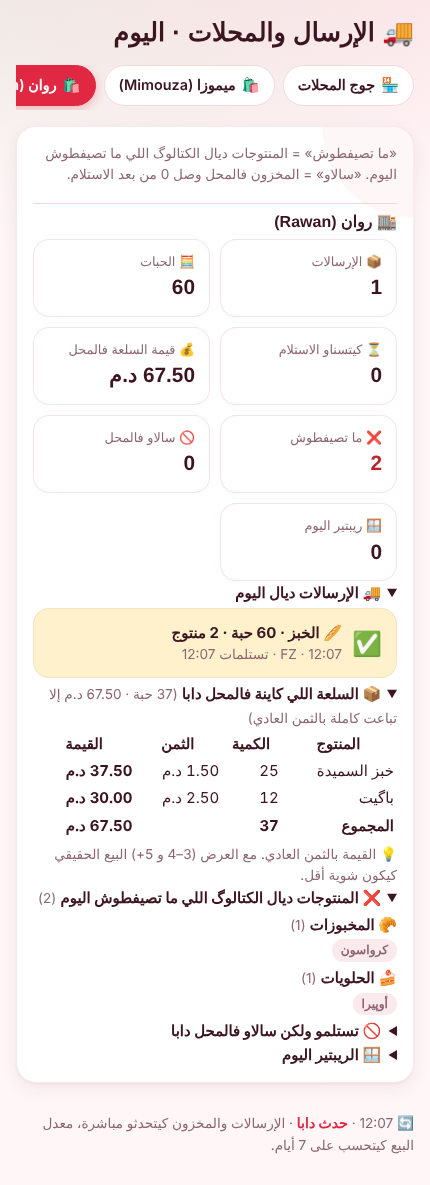
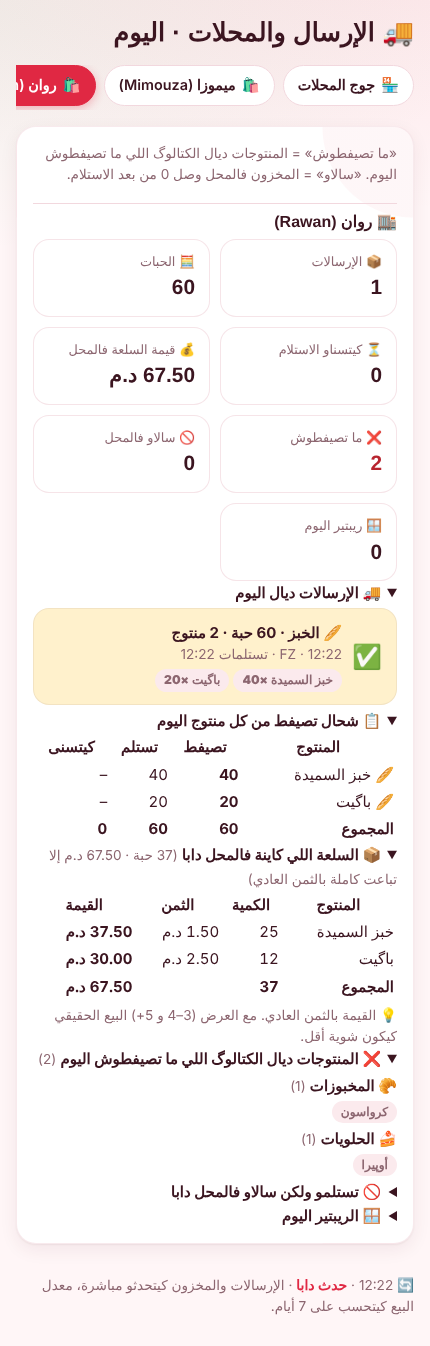
Envois: product quantities shown inline (list, alerts, page) + per-product table
Claude-Session: https://claude.ai/code/session_014YpbwZJMCfzPCsZSkfDrJR

diff --git a/index.html b/index.html
@@ -414,7 +414,7 @@ body.hasme .brand{flex-shrink:0}
 
 <meta charset="utf-8"><meta name="viewport" content="width=device-width,initial-scale=1,viewport-fit=cover"><link rel="manifest" href="manifest.webmanifest"><meta name="apple-mobile-web-app-capable" content="yes"><meta name="mobile-web-app-capable" content="yes"><meta name="apple-mobile-web-app-title" content="Morango"><link rel="apple-touch-icon" href="icon-512.png"><link rel="icon" href="icon-192.png">
 <style>/* iPhone home-screen app: keep content below the status bar / notch */@supports(padding:env(safe-area-inset-top)){body{padding-top:env(safe-area-inset-top)}body::before{content:"";position:fixed;top:0;left:0;right:0;height:env(safe-area-inset-top);background:var(--bg,#fff6f7);z-index:30;pointer-events:none}#sheet .panel{max-height:calc(100% - env(safe-area-inset-top) - 8px)}}</style>
-<script>window.MORANGO_CFG={"url": "https://brxbykkrbpixrmjricco.supabase.co", "key": "sb_publishable_Z4BlEcmV2KvEW01prDcrRw_PmjsgEGl", "email": "app@morango.ma", "build": "20261128120712"}</script>
+<script>window.MORANGO_CFG={"url": "https://brxbykkrbpixrmjricco.supabase.co", "key": "sb_publishable_Z4BlEcmV2KvEW01prDcrRw_PmjsgEGl", "email": "app@morango.ma", "build": "20261128122326"}</script>
 <script src="https://cdn.jsdelivr.net/npm/@supabase/supabase-js@2.45.4/dist/umd/supabase.js"></script>
 <script>/* Morango standalone: Supabase backend behind the same db API the app uses (doc/collection/where/orderBy/limit/onSnapshot) */
 (function(){
@@ -1170,9 +1170,10 @@ function mgLow(force){if(!isAdmin())return[];if(!force&&Date.now()-MGC.t<6e4)ret
 function sheetMarginRep(){const L=mgLow(true);openSheet('📉 الهامش تحت 50%',`<p class="muted" style="margin:0">التكلفة كتتبدل مع أثمنة الشرا. هادو المنتوجات اللي الثمن الصغير ديالهم (العرض) كيخلي هامش تحت 50%. «👌 شفتو» كيخبي التنبيه حتى تطلع التكلفة مرة أخرى.</p>${L.length?L.map(x=>`<div class="prow"><div class="lead"><div><b>${ico(x.it.id)} ${esc(x.it.name)}</b><div class="muted">التكلفة ${money(x.c)} · أصغر ثمن ${money(x.p)} · <span class="neg">هامش ${Math.round(x.m*100)}%</span> · باش يكون 50%: ${money(Math.ceil(x.c/MG_MIN*2)/2)}</div></div></div><div style="display:flex;gap:6px"><button type="button" class="btn small" data-act="itemview" data-id="${x.it.id}">✏</button><button type="button" class="btn small" data-act="mgack" data-id="${x.it.id}">👌 شفتو</button></div></div>`).join(''):'<p>✅ كلشي فوق 50%</p>'}`)}
 function mgAck(id){const it=S.items[id];if(!it)return;const x=mgLow(true).find(y=>y.it.id===id);if(!x)return;db.doc('items/'+id).update({mAck:{c:r2(x.c),p:x.p,ts:Date.now(),by:meName()}}).then(()=>{it.mAck={c:r2(x.c),p:x.p};MGC.t=0;toast('👌');sheetMarginRep()}).catch(e=>toast(e.message||'خطأ',true))}
 function alertsFor(){if(vendRole()){const keep=alertsFor0().filter(h=>/data-act="(tempin|vitshot|transfer)"/.test(h));return keep.concat(helperPending(me.id).map(x=>`<div class="alert bad" data-act="helpconf" data-id="${x.id}"><div class="lead"><span class="em">🤝</span><div><b>أكدي الجرد ديال النوبة ديال ${esc(x.seller||'')}</b><div class="muted">حسبي معاها وأكدي</div></div></div><span class="tag bad">أكدي</span></div>`))}return alertsFor0()}
+const trItems=o=>`<div style="display:flex;flex-wrap:wrap;gap:4px;margin-top:4px">${(o.lines||[]).map(l=>`<span class="tag">${esc(iname(l.item).split(' (')[0])} <b>×${fmt(l.qty)}</b></span>`).join('')}</div>`;
 function alertsFor0(){
   const r=me.role,A=[];if(isMgr())retAll().filter(x=>x.status==='pending').forEach(x=>A.push(`<div class="alert warn" data-act="retopen" data-id="${x.id}"><div class="lead"><span class="em">↩</span><div><b>${x.lateMin>0?'⏰ متأخر · ':''}ريتور كيتسنى الموافقة ديالك: ${money(x.total)}</b><div class="muted">🧾 ${esc(x.ticketNo)} · ${esc(LOC[x.pos]||'')} · 💁 ${esc(x.by)} ${hm(x.ts)} · ${esc(x.why||'')}</div></div></div><span class="tag warn">شوف</span></div>`));if(me.role==='seller'&&!vendRole())retAll().filter(x=>x.status==='approved'&&x.byId===me.id).forEach(x=>A.push(`<div class="alert good" data-act="retopen" data-id="${x.id}"><div class="lead"><span class="em">↩</span><div><b>✅ تقبل الريتور: ${money(x.total)}</b><div class="muted">🧾 ${esc(x.ticketNo)} · كملي مع الزبون</div></div></div><span class="tag good">كمل</span></div>`));if(isMgr()||isProd()||canBuy()){const np=Object.values(S.lotm||{}).filter(l=>l.needPrint&&!l.printed&&l.status==='active');const byP={};np.forEach(l=>{const k=l.purchaseId||l.id;(byP[k]=byP[k]||[]).push(l)});Object.values(byP).forEach(L=>A.push(`<div class="alert bad" data-act="lotprint" data-id="${L.map(l=>l.id).join(',')}"><div class="lead"><span class="em">🏷</span><div><b>طبع ${L.length} تيكي ديال الشراء ولصقهم على السلعة</b><div class="muted">${esc(L[0].supplier||'')} · ${esc(LOC[L[0].loc]||'')} · ${esc(L[0].by||'')} ${hm(L[0].ts)}</div></div></div><span class="tag bad">🖨 طبع</span></div>`))}if(isMgr())itemsArr().filter(i=>i.active!==false&&blendOf(i.id)&&+i.blendTarget>0).forEach(i=>{const c=blendCostAt(i.id,blendOf(i.id));if(c>+i.blendTarget+0.005)A.push(`<div class="alert warn" data-act="blendfix" data-id="${i.id}"><div class="lead"><span class="em">🥣</span><div><b>${esc(i.name)}${frT(i)} طلع لـ ${money(c)} (الهدف ${money(i.blendTarget)})</b><div class="muted">الأثمنة ديال المواد تبدلو · شوف الاقتراح ديال الوصفة</div></div></div><span class="tag warn">💡</span></div>`)});if(canDpSend())(S.dplans||[]).filter(p=>p.date<=today()&&p.date>=daysAgo(1)&&(dpLate(p)||dpSoon(p))).forEach(p=>A.push(`<div class="alert ${dpLate(p)?'bad':'acc'}" data-act="go" data-v="dispatch" data-id="${p.id}${dpLate(p)?'L':'S'}"><div class="lead"><span class="em">🚚</span><div><b>${dpLate(p)?'⏰ متأخر: ':'🔜 قريب: '}الإرسال ديال ${esc(p.time||'')} لـ${esc(LOC[p.pos]||'')}</b><div class="muted">${(p.lines||[]).length} منتوج · ${dpState(p)==='part'?'تصيفط شي':'ما تصيفط والو'}</div></div></div><span class="tag ${dpLate(p)?'bad':'acc'}">صيفط</span></div>`));vldOps().forEach(o=>{const t=vldTodo(o),S1=opSum(o);A.push(`<div class="alert ${t==='fix'?'bad':'acc'}" data-act="vld" data-id="${o.id}"><div class="lead"><span class="em">${t==='sign'?'✍':t==='fix'?'⛔':'✅'}</span><div><b>${t==='sign'?'خاص الشاف يسني: ':t==='fix'?'ترفضات: ':'كتسنى الموافقة ديالك: '}${S1.t}</b><div class="muted">${esc(S1.ws)} · ${S1.it} · ${esc(o.by)} ${hm(o.ts)}</div></div></div><span class="tag acc">شوف</span></div>`)});(S.orders||[]).filter(o=>ordTodo(o).length).forEach(o=>A.push(`<div class="alert acc" data-act="order" data-id="${o.id}"><div class="lead"><span class="em">📝</span><div><b>طلبية #${o.num} كتسنى الموافقة ديالك</b><div class="muted">${esc(o.client)} · 📅 ${o.due} ${o.dueTime||''} · ${ordTodo(o).map(t=>t==='price'?'💰 الثمن':t==='adv'?'💵 التسبيق':'⏳ التاريخ').join('، ')}</div></div></div><span class="tag acc">شوف</span></div>`));const big=r==='admin'||r==='manager'||r==='prod';const mine=o=>big||(r==='ws'&&o.ws===me.loc)||(r==='seller'&&o.pos===me.loc)||(r==='driver'&&o.status==='with_driver');
-  S.pend.filter(o=>o.type==='transfer'&&mine(o)).forEach(o=>A.push(`<div class="alert ${trLate(o)?'bad':'acc'}" data-act="transfer" data-id="${o.id}"><div class="lead"><span class="em">${o.status==='with_driver'?'🚚':'📦'}</span><div><b>${o.status==='with_driver'?'مع السائق':'كتسنى الاستلام'}${trLate(o)?' ⏰ متأخر':''}</b><div class="muted">${esc(LOC[o.ws])} ← ${esc(LOC[o.pos])} · ${hm(o.ts)} · هادي ${dur(trAge(o))}</div></div></div><span class="tag acc">شوف</span></div>`));
+  S.pend.filter(o=>o.type==='transfer'&&mine(o)).forEach(o=>A.push(`<div class="alert ${trLate(o)?'bad':'acc'}" data-act="transfer" data-id="${o.id}"><div class="lead"><span class="em">${o.status==='with_driver'?'🚚':'📦'}</span><div><b>${o.status==='with_driver'?'مع السائق':'كتسنى الاستلام'}${trLate(o)?' ⏰ متأخر':''}</b><div class="muted">${esc(LOC[o.ws])} ← ${esc(LOC[o.pos])} · ${hm(o.ts)} · هادي ${dur(trAge(o))}</div>${trItems(o)}</div></div><span class="tag acc">شوف</span></div>`));
   if(big||r==='ws'||r==='seller'){
     allOps().filter(o=>o.type==='transfer'&&o.hasDiff&&mine(o)).slice(0,5).forEach(o=>A.push(`<div class="alert bad" data-act="transfer" data-id="${o.id}"><div class="lead"><span class="em">⚠</span><div><b>فرق فالاستلام</b><div class="muted">${esc(LOC[o.ws])} ← ${esc(LOC[o.pos])} · ${o.date}</div></div></div><span class="tag bad">شوف</span></div>`));
     S.pend.filter(o=>o.type==='return'&&(big||(r==='ws'&&o.ws===me.loc))).forEach(o=>A.push(`<div class="alert" data-act="decide" data-id="${o.id}"><div class="lead"><span class="em">↩</span><div><b>مرتجعات كتسنى القرار</b><div class="muted">${esc(LOC[o.pos])} ← ${esc(LOC[o.ws])} · ${o.lines.length} منتوج</div></div></div><span class="tag warn">قرر</span></div>`))}
@@ -1254,7 +1255,7 @@ function vProd(){
 function stTag(o){if(o.status==='sent')return '<span class="tag acc">📦 كتسنى</span>';if(o.status==='with_driver')return '<span class="tag acc">🚚 مع السائق</span>';return o.hasDiff?'<span class="tag bad">⚠ فرق</span>':'<span class="tag good">✅ مطابق</span>'}
 const trAge=o=>o.recv?o.recv.ts-o.ts:Date.now()-o.ts;
 const trLate=o=>!o.recv&&trAge(o)>SEND_LATE_MIN*60000;
-const trRow=o=>`<li class="clk" data-act="transfer" data-id="${o.id}"><div class="lead"><span class="em">${LOCI[o.ws]}</span><div><b>${esc(LOC[o.ws])} ← ${esc(LOC[o.pos])}</b><div class="muted">${o.date} ${hm(o.ts)} · ${o.lines.length} منتوج${o.driver?' · '+esc(o.driver):''} · ${o.recv?'⏱ وصلات فـ '+dur(trAge(o)):'⏳ هادي '+dur(trAge(o))}</div></div></div>${trLate(o)?'<span class="tag bad">⏰ متأخر</span>':stTag(o)}</li>`;
+const trRow=o=>`<li class="clk" data-act="transfer" data-id="${o.id}"><div class="lead"><span class="em">${LOCI[o.ws]}</span><div><b>${esc(LOC[o.ws])} ← ${esc(LOC[o.pos])}</b><div class="muted">${o.date} ${hm(o.ts)} · ${o.lines.length} منتوج${o.driver?' · '+esc(o.driver):''} · ${o.recv?'⏱ وصلات فـ '+dur(trAge(o)):'⏳ هادي '+dur(trAge(o))}</div>${trItems(o)}</div></div>${trLate(o)?'<span class="tag bad">⏰ متأخر</span>':stTag(o)}</li>`;
 function vSend(){
   let pend=S.pend.filter(o=>o.type==='transfer');if(me.role==='driver')pend=pend.filter(o=>o.status==='with_driver');if(me.role==='ws')pend=pend.filter(o=>o.ws===me.loc);
   let done=S.ops.filter(o=>o.type==='transfer'&&o.status==='received');if(me.role==='ws')done=done.filter(o=>o.ws===me.loc);
@@ -2983,11 +2984,15 @@ function dashLogi(D){const X=D.data,td=today();if(!X)return '';const fp=D.pos;
     const inSt=catAll.map(i=>({id:i.id,q:stockOf(p.id,i.id),pr:+i.price||0})).filter(x=>x.q>0).sort((a,b)=>b.q*b.pr-a.q*a.pr);const stVal=inSt.reduce((a,x)=>a+x.q*x.pr,0),stQ=inSt.reduce((a,x)=>a+x.q,0);const got={};T.filter(o=>o.recv||o.status==='received').forEach(o=>(o.lines||[]).forEach(l=>got[l.item]=1));const empty=usual.filter(x=>got[x.id]&&stockOf(p.id,x.id)<=0);
     const outs=(S.outs||[]).filter(o=>o.pos===p.id&&o.date===td);const openO=outs.filter(o=>o.status==='open');
     const byWs=arr=>{const g={};arr.forEach(x=>{const w=it(x.id).ws||'';(g[w]=g[w]||[]).push(x)});return Object.entries(g).map(([w,a])=>`<div style="margin:4px 0"><b>${LOCI[w]||'🏭'} ${esc(LOC[w]||w)}</b> <span class="muted">(${a.length})</span><div style="display:flex;flex-wrap:wrap;gap:4px;margin-top:3px">${a.map(x=>`<span class="tag">${nm(x.id)}</span>`).join('')}</div></div>`).join('')};
-    const trRows=T.length?T.map(o=>{const n=(o.lines||[]).reduce((a,l)=>a+(+l.qty||0),0);const ok=o.recv||o.status==='received';return `<div class="alert ${ok?'good':'warn'}" data-act="transfer" data-id="${o.id}" style="margin:4px 0"><div class="lead"><span class="em">${ok?'✅':'⏳'}</span><div><b>${LOCI[o.ws]||''} ${esc(LOC[o.ws]||o.ws)} · ${fmt(n)} حبة · ${(o.lines||[]).length} منتوج</b><div class="muted">${hm(o.ts)} · ${esc(o.by||'')} · ${ok?'تستلمات'+(o.recv?.ts?' '+hm(o.recv.ts):''):'كتسنى الاستلام'}${o.hasDiff?' · ⚠ كاين فرق':''}</div></div></div></div>`}).join(''):'<p class="muted">ما تصيفط والو اليوم.</p>';
+    const trRows=T.length?T.map(o=>{const n=(o.lines||[]).reduce((a,l)=>a+(+l.qty||0),0);const ok=o.recv||o.status==='received';return `<div class="alert ${ok?'good':'warn'}" data-act="transfer" data-id="${o.id}" style="margin:4px 0"><div class="lead"><span class="em">${ok?'✅':'⏳'}</span><div><b>${LOCI[o.ws]||''} ${esc(LOC[o.ws]||o.ws)} · ${fmt(n)} حبة · ${(o.lines||[]).length} منتوج</b><div class="muted">${hm(o.ts)} · ${esc(o.by||'')} · ${ok?'تستلمات'+(o.recv?.ts?' '+hm(o.recv.ts):''):'كتسنى الاستلام'}${o.hasDiff?' · ⚠ كاين فرق':''}</div><div style="display:flex;flex-wrap:wrap;gap:4px;margin-top:4px">${(o.diff||o.lines||[]).map(l=>{const q=o.diff?l.sent:l.qty,g=o.diff?l.got:null;return `<span class="tag">${nm(l.item)} <b>×${fmt(q)}</b>${g!=null&&g!==q?` <span class="neg">(وصل ${fmt(g)})</span>`:''}</span>`}).join('')}</div></div></div></div>`}).join(''):'<p class="muted">ما تصيفط والو اليوم.</p>';
+    const agg={};T.forEach(o=>{const ok=o.recv||o.status==='received';(o.diff||o.lines||[]).forEach(l=>{const id=l.item,q=+(o.diff?l.sent:l.qty)||0,g=ok?+(o.diff?l.got:l.qty)||0:0;const a=agg[id]||(agg[id]={s:0,g:0,p:0});a.s+=q;a.g+=g;if(!ok)a.p+=q})});
+    const aRows=Object.entries(agg).sort((x,y)=>(it(x[0]).ws||'').localeCompare(it(y[0]).ws||'')||y[1].s-x[1].s);
+    const sumTbl=aRows.length?`<div style="overflow-x:auto"><table class="dtab" style="width:100%"><tr><th>المنتوج</th><th>تصيفط</th><th>تستلم</th><th>كيتسنى</th></tr>${aRows.map(([id,a])=>`<tr><td>${LOCI[it(id).ws]||''} ${nm(id)}</td><td class="num"><b>${fmt(a.s)}</b></td><td class="num">${a.g?fmt(a.g):'–'}</td><td class="num ${a.p?'neg':''}">${a.p?fmt(a.p):'–'}</td></tr>`).join('')}<tr><td><b>المجموع</b></td><td class="num"><b>${fmt(aRows.reduce((t,[,a])=>t+a.s,0))}</b></td><td class="num"><b>${fmt(aRows.reduce((t,[,a])=>t+a.g,0))}</b></td><td class="num"><b>${fmt(aRows.reduce((t,[,a])=>t+a.p,0))}</b></td></tr></table></div>`:'<p class="muted">ما تصيفط والو اليوم.</p>';
     const stat=(i,l,v,c='')=>`<div class="stat"><span>${i} ${l}</span><b class="${c}">${v}</b></div>`;
     return `<div style="border-top:1px solid var(--line);padding-top:8px;margin-top:8px"><h3 style="margin:0 0 6px">${LOCI[p.id]||'🏪'} ${esc(p.name)}</h3>
       <div class="stats dk">${stat('📦','الإرسالات',fmt(T.length))}${stat('🧮','الحبات',fmt(pcs))}${stat('⏳','كيتسناو الاستلام',fmt(pend),pend?'neg':'')}${stat('💰','قيمة السلعة فالمحل',money(stVal))}${stat('❌','ما تصيفطوش',fmt(notSent.length),notSent.length?'neg':'')}${stat('🚫','سالاو فالمحل',fmt(empty.length),empty.length?'neg':'')}${stat('🪟','ريبتير اليوم',fmt(outs.length)+(openO.length?' ('+openO.length+' خاوي)':''),outs.length?'neg':'')}</div>
       <details open><summary><b>🚚 الإرسالات ديال اليوم</b></summary>${trRows}</details>
+      <details open><summary><b>📋 شحال تصيفط من كل منتوج اليوم</b></summary>${sumTbl}</details>
       <details open><summary><b>📦 السلعة اللي كاينة فالمحل دابا</b> <span class="muted">(${fmt(stQ)} حبة · ${money(stVal)} إلا تباعت كاملة بالثمن العادي)</span></summary>${inSt.length?`<div class="tbl" style="overflow-x:auto"><table class="dtab" style="width:100%"><tr><th>المنتوج</th><th>الكمية</th><th>الثمن</th><th>القيمة</th></tr>${inSt.map(x=>`<tr><td>${nm(x.id)}</td><td class="num">${fmt(x.q)}</td><td class="num">${money(x.pr)}</td><td class="num"><b>${money(x.q*x.pr)}</b></td></tr>`).join('')}<tr><td><b>المجموع</b></td><td class="num"><b>${fmt(stQ)}</b></td><td></td><td class="num"><b>${money(stVal)}</b></td></tr></table></div><p class="muted" style="margin:4px 0 0">💡 القيمة بالثمن العادي. مع العرض (3–4 و 5+) البيع الحقيقي كيكون شوية أقل.</p>`:'<p class="muted">المخزون فالمحل خاوي (ولا السلعة مازال ما تستلماتش).</p>'}</details>
       <details ${notSent.length?'open':''}><summary><b>❌ المنتوجات ديال الكتالوگ اللي ما تصيفطوش اليوم</b> <span class="muted">(${notSent.length})</span></summary>${notSent.length?byWs(notSent):'<p class="muted">كلشي تصيفط ✅</p>'}</details>
       <details ${empty.length?'open':''}><summary><b>🚫 تستلمو ولكن سالاو فالمحل دابا</b></summary>${empty.length?byWs(empty):'<p class="muted">والو.</p>'}</details>
@@ -5104,7 +5109,7 @@ const ACT={ask:()=>sheetAsk(),askclear:()=>{if(ASK.busy)return;ASK.h=[];askPaint
   cartadd:()=>sheetCartAdd(),cartback:()=>sheetCart(),cacat:el=>{S.caCat=el.dataset.id;S.caCat2='';sheetCartAdd()},cacat2:el=>{S.caCat2=el.dataset.id;sheetCartAdd()},
   staffdisc:()=>sheetStaffDisc(),bdcode:()=>sheetBdCode(),obdcode:el=>sheetBdCode(el.dataset.id),bdon:el=>{S.bdOn=S.bdOn||{};S.bdOn[S.pos]=S.bdOn[S.pos]===el.dataset.id?null:el.dataset.id;sheetCart()},staffoff:()=>{if(S.staff)delete S.staff[S.pos];sheetCart()},cclear:()=>{if(S.bonMode)delete S.bonMode[S.pos];if(S.staff)delete S.staff[S.pos];S.cart[S.pos]={};S.packEdit[S.pos]={};if(S.bonPay)delete S.bonPay[S.pos];closeSheet();render()},
   returnpos:()=>sheetReturnPos(),decide:el=>sheetDecide(el.dataset.id),newpurchase:()=>sheetPurchase(),opdetail:el=>sheetOpDetail(el.dataset.id),
-  neworder:()=>sheetNewOrder(),recedit:el=>sheetRecipeEdit(el.dataset.id),bundle:el=>sheetBundle(el?.dataset?.id),tasting:()=>sheetTasting(),gramedit:el=>sheetGram(el.dataset.id),blendedit:el=>sheetBlendEdit(el.dataset.id),blendfix:el=>sheetBlendFix(el.dataset.id),purchedit:el=>sheetPurchEdit(el.dataset.id),sups:()=>sheetSuppliers(),rcvlist:()=>{const p=me.loc||S.pos;const L=S.pend.filter(o=>o.type==='transfer'&&o.pos===p);if(L.length===1)return sheetTransfer(L[0].id);openSheet('📦 السلعة اللي جاية لـ'+LOC[p],L.length?L.map(o=>`<div class="alert acc" data-act="transfer" data-id="${o.id}"><div class="lead"><span class="em">${o.status==='with_driver'?'🚚':'📦'}</span><div><b>${esc(LOC[o.ws]||'')} · ${(o.lines||[]).length} منتوج</b><div class="muted">${hm(o.ts)} · ${esc(o.by||'')}</div></div></div><span class="tag acc">استلم</span></div>`).join(''):emptyB('📦','ما كاينة حتى سلعة جاية دابا.'))},dpedit:el=>sheetDpEdit(el.dataset.id),dpgrid:()=>sheetDpGrid(),dpsend:el=>dpSendSheet(el.dataset.id,el.dataset.w),dpfin:el=>{S.ws=el.dataset.w;sheetProduce('final',{item:el.dataset.item,qty:+el.dataset.q})},dpdel:async el=>{const p=(S.dplans||[]).find(x=>x.id===el.dataset.id);if(!p||!confirm('🗑 نمسحو هاد الإرسال المبرمج؟'))return;try{await db.doc('dplans/'+p.id).delete();toast('🗑 تمسح')}catch(e){toast(e.message,true)}},dpcopy:async()=>{const d=S.dpd||today(),src=(S.dplans||[]).filter(p=>p.date===daysAgo(1));if(!src.length||!confirm('📋 ننسخو '+src.length+' إرسال من البارح لـ '+d+'؟'))return;try{for(const p of src)await db.collection('dplans').add({pos:p.pos,date:d,time:p.time,lines:p.lines,note:p.note||'',by:meName(),byId:me.id,ts:Date.now(),sent:{},transfers:[]});toast('📋 تنسخ')}catch(e){toast(e.message,true)}},vld:el=>sheetVld(el.dataset.id),pushon:()=>pushSub(true),ochef:el=>sheetOrdChef(el.dataset.id,el.dataset.w,el.dataset.d),oprice:el=>sheetOrdPrice(el.dataset.id),opay:el=>sheetOrdPay(el.dataset.id),oredate:el=>sheetOrdRedate(el.dataset.id),odeliver:el=>sheetOrdDeliver(el.dataset.id),oslip:el=>{const o=S.orders.find(x=>x.id===el.dataset.id);if(o)printOrderSlip(o,el.dataset.c)},ocancel:async el=>{const o=S.orders.find(x=>x.id===el.dataset.id);if(!o||!confirm('🗑 نلغيو الطلبية #'+o.num+'؟'+((+o.advance||0)+(+o.paidRest||0)>0?'\n💵 الزبون خلص '+money((+o.advance||0)+(+o.paidRest||0))+': ما تنساش ترجع ليه الفلوس.':'')))return;try{await db.doc('orders/'+o.id).update({status:'cancel',history:[...(o.history||[]),{s:'cancel',by:meName(),ts:Date.now()}]});closeSheet();toast('🗑 تلغات')}catch(e){toast(e.message,true)}},oadvq:async el=>{const o=S.orders.find(x=>x.id===el.dataset.id);if(!o?.advReq||!ordApv())return;const ok=el.dataset.d==='ok';try{await db.doc('orders/'+o.id).update({advReq:{...o.advReq,st:ok?'ok':'no',by:meName(),dts:Date.now()}});o.advReq={...o.advReq,st:ok?'ok':'no',by:meName()};toast(ok?'✅ وافقتي':'⛔ رفضتي');sheetOrder2(o.id)}catch(e){toast(e.message,true)}},order:el=>sheetOrder(el.dataset.id),oadv:el=>{const o=S.orders.find(x=>x.id===el.dataset.id);if(o?.v===2&&el.dataset.s==='delivered')return sheetOrdDeliver(o.id);return sheetOrderAdvance(el.dataset.id,el.dataset.s)},oadv_old:el=>sheetOrderAdvance(el.dataset.id,el.dataset.s),
+  neworder:()=>sheetNewOrder(),recedit:el=>sheetRecipeEdit(el.dataset.id),bundle:el=>sheetBundle(el?.dataset?.id),tasting:()=>sheetTasting(),gramedit:el=>sheetGram(el.dataset.id),blendedit:el=>sheetBlendEdit(el.dataset.id),blendfix:el=>sheetBlendFix(el.dataset.id),purchedit:el=>sheetPurchEdit(el.dataset.id),sups:()=>sheetSuppliers(),rcvlist:()=>{const p=me.loc||S.pos;const L=S.pend.filter(o=>o.type==='transfer'&&o.pos===p);if(L.length===1)return sheetTransfer(L[0].id);openSheet('📦 السلعة اللي جاية لـ'+LOC[p],L.length?L.map(o=>`<div class="alert acc" data-act="transfer" data-id="${o.id}"><div class="lead"><span class="em">${o.status==='with_driver'?'🚚':'📦'}</span><div><b>${esc(LOC[o.ws]||'')} · ${(o.lines||[]).length} منتوج</b><div class="muted">${hm(o.ts)} · ${esc(o.by||'')}</div>${trItems(o)}</div></div><span class="tag acc">استلم</span></div>`).join(''):emptyB('📦','ما كاينة حتى سلعة جاية دابا.'))},dpedit:el=>sheetDpEdit(el.dataset.id),dpgrid:()=>sheetDpGrid(),dpsend:el=>dpSendSheet(el.dataset.id,el.dataset.w),dpfin:el=>{S.ws=el.dataset.w;sheetProduce('final',{item:el.dataset.item,qty:+el.dataset.q})},dpdel:async el=>{const p=(S.dplans||[]).find(x=>x.id===el.dataset.id);if(!p||!confirm('🗑 نمسحو هاد الإرسال المبرمج؟'))return;try{await db.doc('dplans/'+p.id).delete();toast('🗑 تمسح')}catch(e){toast(e.message,true)}},dpcopy:async()=>{const d=S.dpd||today(),src=(S.dplans||[]).filter(p=>p.date===daysAgo(1));if(!src.length||!confirm('📋 ننسخو '+src.length+' إرسال من البارح لـ '+d+'؟'))return;try{for(const p of src)await db.collection('dplans').add({pos:p.pos,date:d,time:p.time,lines:p.lines,note:p.note||'',by:meName(),byId:me.id,ts:Date.now(),sent:{},transfers:[]});toast('📋 تنسخ')}catch(e){toast(e.message,true)}},vld:el=>sheetVld(el.dataset.id),pushon:()=>pushSub(true),ochef:el=>sheetOrdChef(el.dataset.id,el.dataset.w,el.dataset.d),oprice:el=>sheetOrdPrice(el.dataset.id),opay:el=>sheetOrdPay(el.dataset.id),oredate:el=>sheetOrdRedate(el.dataset.id),odeliver:el=>sheetOrdDeliver(el.dataset.id),oslip:el=>{const o=S.orders.find(x=>x.id===el.dataset.id);if(o)printOrderSlip(o,el.dataset.c)},ocancel:async el=>{const o=S.orders.find(x=>x.id===el.dataset.id);if(!o||!confirm('🗑 نلغيو الطلبية #'+o.num+'؟'+((+o.advance||0)+(+o.paidRest||0)>0?'\n💵 الزبون خلص '+money((+o.advance||0)+(+o.paidRest||0))+': ما تنساش ترجع ليه الفلوس.':'')))return;try{await db.doc('orders/'+o.id).update({status:'cancel',history:[...(o.history||[]),{s:'cancel',by:meName(),ts:Date.now()}]});closeSheet();toast('🗑 تلغات')}catch(e){toast(e.message,true)}},oadvq:async el=>{const o=S.orders.find(x=>x.id===el.dataset.id);if(!o?.advReq||!ordApv())return;const ok=el.dataset.d==='ok';try{await db.doc('orders/'+o.id).update({advReq:{...o.advReq,st:ok?'ok':'no',by:meName(),dts:Date.now()}});o.advReq={...o.advReq,st:ok?'ok':'no',by:meName()};toast(ok?'✅ وافقتي':'⛔ رفضتي');sheetOrder2(o.id)}catch(e){toast(e.message,true)}},order:el=>sheetOrder(el.dataset.id),oadv:el=>{const o=S.orders.find(x=>x.id===el.dataset.id);if(o?.v===2&&el.dataset.s==='delivered')return sheetOrdDeliver(o.id);return sheetOrderAdvance(el.dataset.id,el.dataset.s)},oadv_old:el=>sheetOrderAdvance(el.dataset.id,el.dataset.s),
   item:el=>sheetItem(el.dataset.id),newitem:el=>{S.newKind=el.dataset.k==='pre'?'semi':el.dataset.k;S.newStage=el.dataset.k==='pre'?'pre':null;sheetItem();S.newKind=null;S.newStage=null},cats:el=>sheetCats(el.dataset.id),setpcat2:el=>{S.pcat2=el.dataset.id;render()},catsub:el=>{S.catSub=el.dataset.id;render()},media:el=>openMedia(el.dataset.id),
   sigclear:el=>{const c=$('#'+el.dataset.id);c&&c._clear&&c._clear()},
 };
